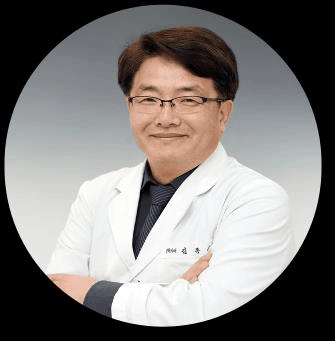
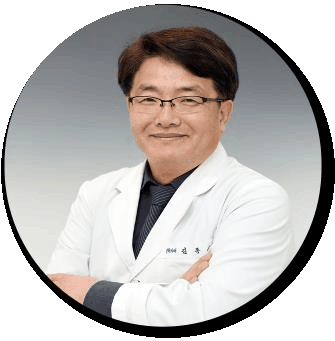
Rebuild the research team on brand, fix portraits, repair product showcase
Two broken assets and two sections that did not match the branding.

Portraits: the researcher PNGs had opaque black backgrounds baked in — no
alpha channel at all — so on the pale team background every circular portrait
sat inside a black square. Keyed the black out: a circular alpha mask for the
seven round portraits, and a border-seeded flood fill for the full-body
cutout, which preserves dark hair and clothing that a luminance threshold
would have eaten.

Team section: moved off flat white onto the brand navy, with a credibility
strip (specialists, institutions, patent strain) above the grid so it reads as
an organisation rather than a photo gallery. Portraits now stand on a lit
plinth with a cyan floor line. Cards are solid navy with a cyan outline and a
proper View profile pill. New rules are scoped under .research-grid so they
outrank the legacy white-card styles, whose transform also fought the
framer-motion hover.

Product showcase: product-showcase.jpg was a corrupt crop — the top of a
woman's forehead above a large black band, unrelated to the product. Replaced
with a clean frame of the actual carton, blister and NO molecules from the
product footage.

Product section also extended into a conversion block: trust badges, a box
contents list, dual product and affiliate CTAs, and a line setting
expectations that ordering opens when the store goes live.

The verification notice on the team section is now explicit that written
[…]

Changed region(s): [[0.0, 0.5279, 1.0, 1.0], [0.0, 0.0, 1.0, 0.4692]]

diff --git a/components/BioNovSite.tsx b/components/BioNovSite.tsx
@@ -2106,43 +2106,55 @@ export default function BioNovSite({ faq }: { faq: { question: string; answer: s
       </section>
 
       {/* ---------------- Research team (brighter + clickable) ---------------- */}
-      <Reveal id="team" className="section team">
-        <div className="team-aurora" aria-hidden="true">
-          <span /><span /><span /><span />
-        </div>
+      <Reveal id="team" className="team-section">
         <div className="team-inner">
-        <Heading
-          eyebrow="People behind the science"
-          title="Science & Research Team"
-          copy="BIO N:OV was developed with researchers from Korean universities and medical schools — eight specialists across nitric oxide biology, cardiovascular research, metabolism and regenerative medicine."
-        />
-        <p className="click-prompt"><MousePointerClick size={17} /> Click any researcher to open their full profile</p>
-        <div className="research-grid">
-          {researchers.map(r => (
-            <motion.button
-              whileHover={{ y: -8 }}
-              key={r.name}
-              onClick={() => setModal({
-                title: r.name,
-                subtitle: r.org,
-                body: [r.role, "Professional titles, affiliations and research information are transcribed from the supplied product presentation and require verification and written permission before public use."],
-                points: r.focus
-              })}
-              aria-label={`Read more about ${r.name}`}
-            >
-              <div className="research-photo">
-                <Image src={`/images/${r.img}`} alt={`Portrait of ${r.name}`} width={320} height={320} />
-              </div>
-              <div className="research-body">
-                <h3>{r.name}</h3>
-                <span>{r.org}</span>
-                <p>{r.role}</p>
-                <span className="learn-more">View profile <Plus size={15} /></span>
-              </div>
-            </motion.button>
-          ))}
-        </div>
-        <div className="warning">Professional titles, affiliations, portraits and research information must be verified and permission obtained before publication.</div>
+          <div className="team-head">
+            <Heading
+              light
+              eyebrow="People behind the science"
+              title="Science & Research Team"
+              copy="BIO N:OV was developed with researchers from Korean universities and medical schools — eight specialists across nitric oxide biology, cardiovascular research, metabolism and regenerative medicine."
+            />
+            <div className="team-creds">
+              <div><b>8</b><span>Specialists</span></div>
+              <div><b>5</b><span>Universities &amp; medical schools</span></div>
+              <div><b>KACC91554P</b><span>Patented fermentation strain</span></div>
+            </div>
+            <p className="click-prompt light"><MousePointerClick size={17} /> Click any researcher to open their full profile</p>
+          </div>
+
+          <div className="research-grid">
+            {researchers.map(r => (
+              <motion.button
+                whileHover={{ y: -8 }}
+                key={r.name}
+                className="research-card"
+                onClick={() => setModal({
+                  title: r.name,
+                  subtitle: r.org,
+                  body: [r.role, "Professional titles, affiliations and research information are transcribed from the supplied product presentation and require verification and written permission before public use."],
+                  points: r.focus
+                })}
+                aria-label={`Read more about ${r.name}`}
+              >
+                <span className="research-photo">
+                  <Image src={`/images/${r.img}`} alt={`Portrait of ${r.name}`} width={320} height={320} />
+                </span>
+                <span className="research-body">
+                  <b>{r.name}</b>
+                  <em>{r.org}</em>
+                  <small>{r.role}</small>
+                  <span className="research-more">View profile <Plus size={16} /></span>
+                </span>
+              </motion.button>
+            ))}
+          </div>
+
+          <p className="slide-note">
+            Professional titles, affiliations, portraits and research information are transcribed from the supplied
+            product presentation. All of it must be verified and written permission obtained from each named
+            individual and institution before this page is published or used in advertising.
+          </p>
         </div>
       </Reveal>
 
@@ -2170,7 +2182,29 @@ export default function BioNovSite({ faq }: { faq: { question: string; answer: s
                 "Consult a qualified healthcare professional if you are pregnant, nursing, taking medication or managing a medical condition. Do not use this product as a substitute for medical treatment."
               ][tab]}
             </div>
-            <a className="button primary" href="#contact">Request product information <ArrowRight /></a>
+            <div className="showcase-trust">
+              <span><ShieldCheck size={16} /> GMP-certified manufacture</span>
+              <span><FlaskConical size={16} /> Patented strain KACC91554P</span>
+              <span><Leaf size={16} /> Naturally derived, fermented</span>
+            </div>
+
+            <div className="showcase-box">
+              <b>Every box contains</b>
+              <ul>
+                <li><Check size={15} /><span>60 tablets &times; 500 mg (30 g net)</span></li>
+                <li><Check size={15} /><span>A 20-day supply at three tablets daily</span></li>
+                <li><Check size={15} /><span>Sealed blister packs, manufactured in Korea</span></li>
+              </ul>
+            </div>
+
+            <div className="showcase-cta">
+              <a className="button primary" href="#contact">Request product information <ArrowRight size={18} /></a>
+              <a className="button glass" href="#affiliate">Join us as an affiliate <ArrowRight size={18} /></a>
+            </div>
+            <p className="showcase-note">
+              Pricing and ordering open when the store goes live. Register your interest now and we will contact you
+              first.
+            </p>
           </div>
         </div>
       </Reveal>

diff --git a/app/globals.css b/app/globals.css
@@ -808,3 +808,77 @@
 @media(max-width:520px){.ing-row{gap:13px;padding:11px}
   .ing-row__photo{width:78px;height:70px}
   .ing-row__txt b{font-size:16.5px}}
+
+/* ================= RESEARCH TEAM — INSTITUTIONAL ================= */
+/* Was a pale white grid where the portraits' baked-in black backgrounds read
+   as black squares. Portraits are now alpha-keyed and sit on the brand navy,
+   which is what the black was fighting with in the first place. */
+.team-section{position:relative;overflow:hidden;padding:120px max(7vw,32px);color:#fff;
+  background:radial-gradient(ellipse at 84% 6%,rgba(32,199,236,.2),transparent 52%),
+             radial-gradient(circle at 10% 84%,rgba(102,87,217,.24),transparent 50%),
+             linear-gradient(170deg,#1a3d76 0%,#12305f 52%,#0d2148 100%)}
+.team-section:before{content:"";position:absolute;inset:0;z-index:0;pointer-events:none;
+  background-image:linear-gradient(rgba(255,255,255,.025) 1px,transparent 1px),
+                   linear-gradient(90deg,rgba(255,255,255,.025) 1px,transparent 1px);
+  background-size:58px 58px;mask-image:radial-gradient(circle at 50% 22%,black,transparent 74%)}
+.team-inner{position:relative;z-index:2;max-width:1280px;margin:auto}
+.team-head{margin-bottom:40px}
+.team-head .heading{margin-bottom:22px}
+
+/* credibility strip — reads as an organisation, not a photo gallery */
+.team-creds{display:grid;grid-template-columns:repeat(3,1fr);gap:14px;margin:0 0 20px}
+.team-creds div{padding:20px 22px;border-radius:20px;border:1px solid rgba(143,230,255,.26);
+  background:linear-gradient(160deg,rgba(255,255,255,.09),rgba(255,255,255,.03));backdrop-filter:blur(14px)}
+.team-creds b{display:block;font-size:clamp(22px,2.6vw,34px);font-weight:900;letter-spacing:-.04em;color:#5fe0ff;
+  text-shadow:0 0 32px rgba(95,224,255,.45)}
+.team-creds span{display:block;margin-top:5px;font-size:12.5px;line-height:1.45;color:#bcd4ff}
+
+.research-grid{display:grid;grid-template-columns:repeat(4,1fr);gap:18px}
+/* scoped under .research-grid to outrank the legacy white-card rules */
+.research-grid .research-card{display:flex;flex-direction:column;padding:0;cursor:pointer;overflow:hidden;
+  text-align:left;border-radius:24px;border:1.5px solid rgba(143,230,255,.26);
+  background:linear-gradient(170deg,rgba(9,26,60,.86),rgba(6,18,44,.92));
+  box-shadow:0 20px 54px rgba(2,12,38,.44);transform:none;transform-style:flat;
+  transition:border-color .25s,box-shadow .25s,background .25s}
+.research-grid .research-card:hover{border-color:rgba(95,224,255,.85);box-shadow:0 30px 76px rgba(2,12,38,.6);
+  background:linear-gradient(170deg,rgba(14,36,78,.92),rgba(9,24,56,.95));transform:none}
+
+/* portrait sits on a lit plinth rather than a flat pale panel */
+.research-grid .research-photo{position:relative;display:grid;place-items:end center;height:236px;overflow:hidden;border-bottom:0;
+  background:radial-gradient(ellipse at 50% 92%,rgba(95,224,255,.32),transparent 62%),
+             linear-gradient(180deg,rgba(255,255,255,.06),rgba(255,255,255,.01))}
+.research-grid .research-photo:after{content:"";position:absolute;left:14%;right:14%;bottom:0;height:1px;
+  background:linear-gradient(90deg,transparent,rgba(95,224,255,.7),transparent)}
+.research-grid .research-photo img{position:relative;z-index:1;width:auto;height:100%;max-width:100%;object-fit:contain;
+  filter:drop-shadow(0 14px 26px rgba(0,0,0,.45)) contrast(1.06) saturate(1.08) brightness(1.04)}
+
+.research-grid .research-body{display:flex;flex-direction:column;flex:1;padding:20px 20px 18px}
+.research-body b{font-size:17px;letter-spacing:-.02em;color:#fff;line-height:1.25}
+.research-body em{margin-top:6px;font-style:normal;font-size:11.5px;font-weight:800;letter-spacing:.04em;color:#5fe0ff}
+.research-body small{margin-top:8px;font-size:12.5px;line-height:1.55;color:#bcd4ff}
+.research-more{display:inline-flex;align-items:center;gap:8px;margin-top:auto;padding:9px 15px;
+  align-self:flex-start;border-radius:999px;border:1px solid rgba(143,230,255,.5);
+  background:rgba(95,224,255,.14);font-size:13px;font-weight:800;letter-spacing:.03em;color:#8fe6ff;
+  transition:background .25s,border-color .25s}
+.research-card:hover .research-more{background:rgba(95,224,255,.3);border-color:rgba(143,230,255,.95)}
+.team-section .slide-note{margin-top:26px;color:rgba(200,220,255,.55)}
+
+@media(max-width:1150px){.research-grid{grid-template-columns:repeat(2,1fr)}}
+@media(max-width:760px){.team-creds{grid-template-columns:1fr}
+  .research-grid{grid-template-columns:1fr}
+  .research-photo{height:280px}}
+
+/* ================= PRODUCT SHOWCASE — CONVERSION BLOCK ================= */
+.showcase-trust{display:flex;flex-wrap:wrap;gap:9px;margin:22px 0 0}
+.showcase-trust span{display:inline-flex;align-items:center;gap:8px;padding:9px 14px;border-radius:999px;
+  border:1px solid rgba(255,255,255,.28);background:rgba(255,255,255,.12);backdrop-filter:blur(10px);
+  font-size:12px;font-weight:700}
+.showcase-trust svg{color:#9aeaff}
+.showcase-box{margin-top:20px;padding:20px 22px;border-radius:20px;
+  border:1px solid rgba(255,255,255,.22);background:rgba(255,255,255,.09);backdrop-filter:blur(12px)}
+.showcase-box b{display:block;margin-bottom:11px;font-size:13px;letter-spacing:.08em;text-transform:uppercase;color:#9aeaff}
+.showcase-box ul{display:grid;gap:9px;margin:0;padding:0;list-style:none}
+.showcase-box li{display:flex;align-items:flex-start;gap:10px;font-size:14.5px;line-height:1.5;color:#e4efff}
+.showcase-box svg{flex:none;margin-top:3px;color:#9aeaff}
+.showcase-cta{display:flex;flex-wrap:wrap;gap:12px;margin-top:24px}
+.showcase-note{margin:14px 0 0;font-size:12.5px;line-height:1.6;color:rgba(226,240,255,.72)}
